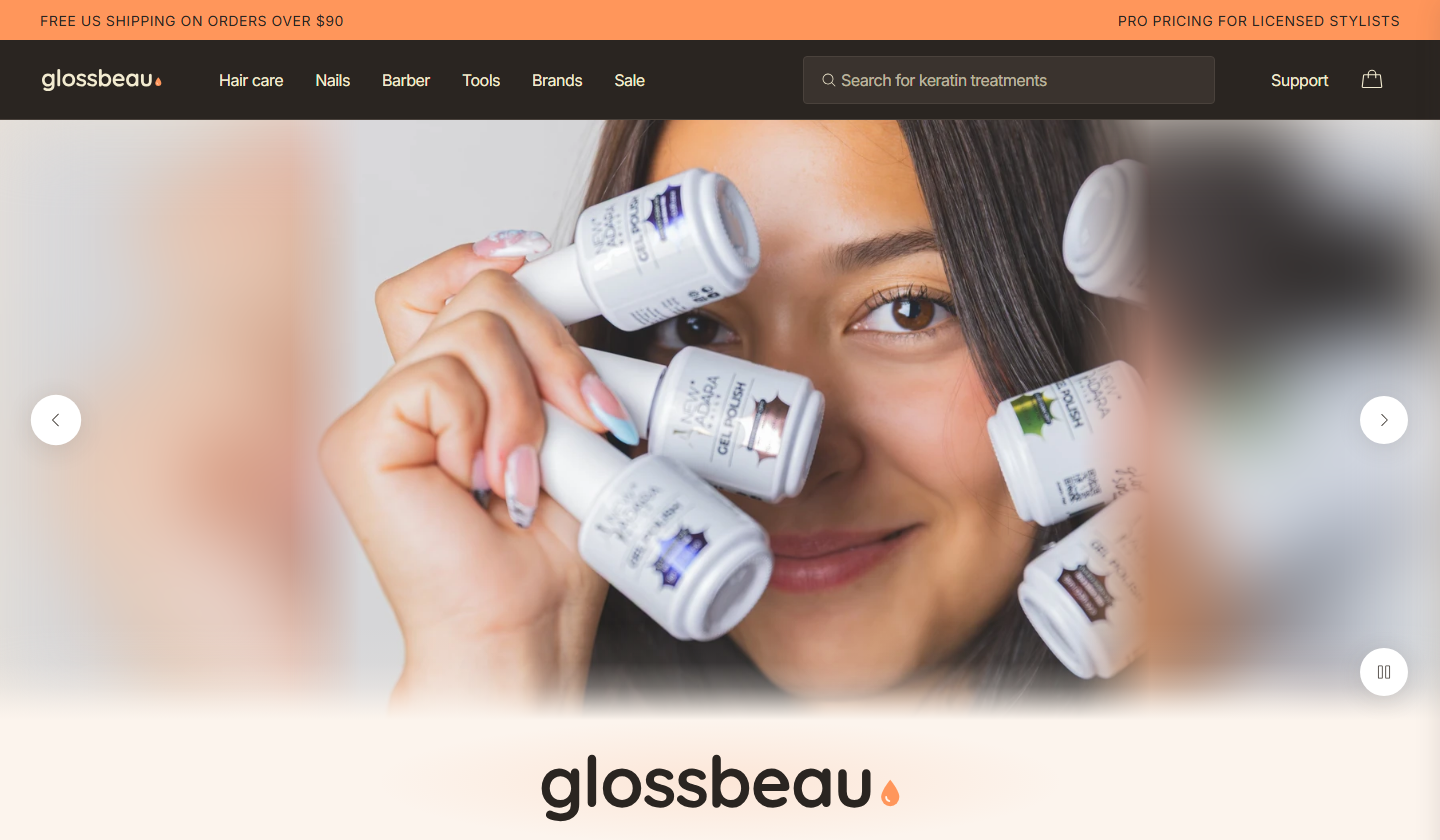
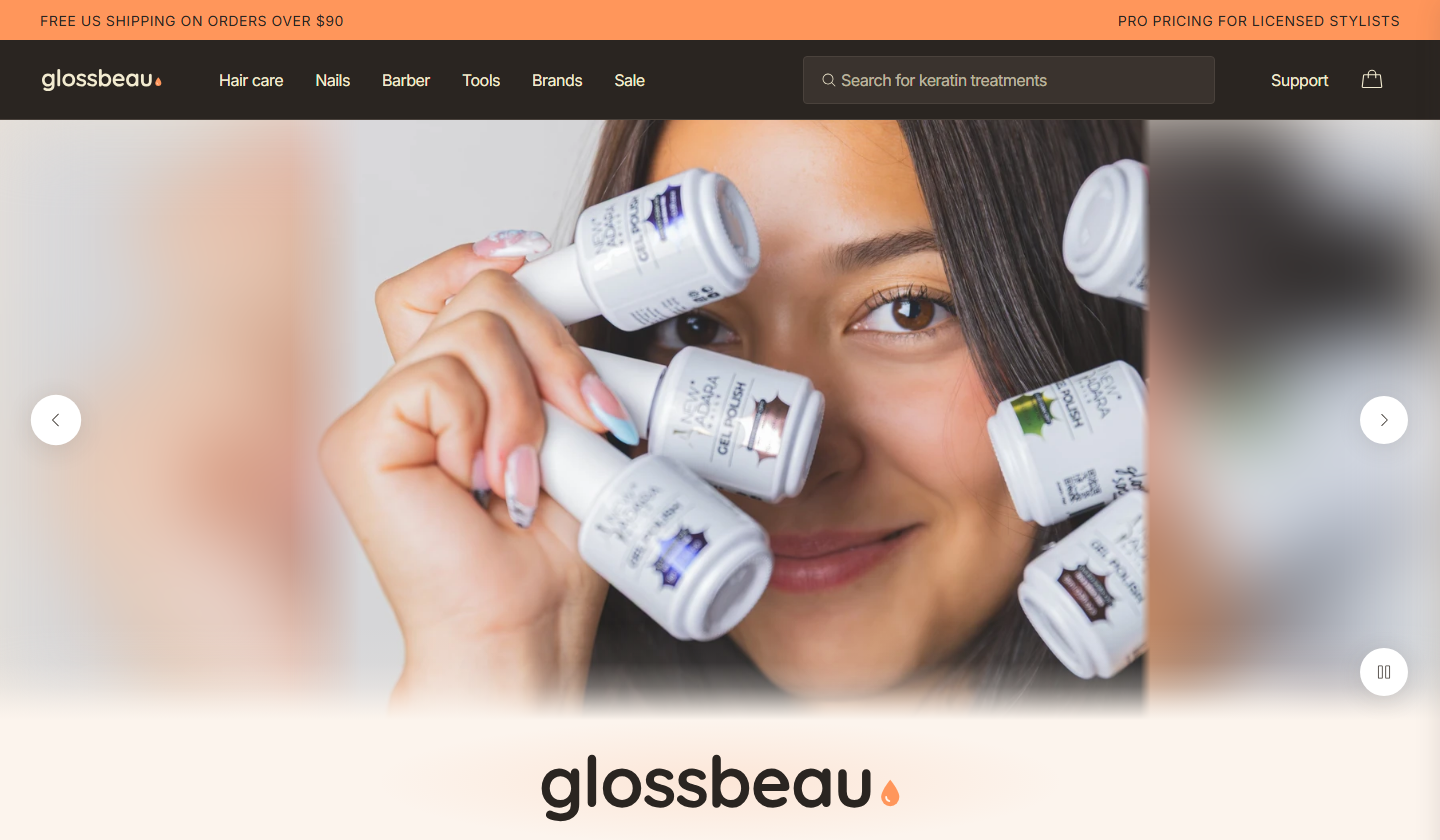
Hero: keep the New Adara bottle labels readable at the right edge
The 72px edge feather washed out the bottle labels that touch the photo's right edge. Feather width is
now per slide (--soft-l / --soft-r, `soft` in src/data/hero.ts); New Adara uses 72px left, 10px right.

Changed region(s): [[0.75, 0.1238, 0.8125, 0.8667]]

diff --git a/src/app/globals.css b/src/app/globals.css
@@ -392,9 +392,11 @@ body {
    is as tall as the stage (min(600px, 70svh)), so its drawn width is that height × --ar. */
 @media (min-width: 1024px) {
   .hero-media-soft {
+    /* --soft-l / --soft-r: feather width per side (72px default). A slide whose subject touches an edge (the New Adara
+       bottle labels on the right) sets that side small so nothing important is washed out. */
     --soft-edge: calc(50% - min(600px, 70svh) * var(--ar) / 2);
-    -webkit-mask-image: linear-gradient(to right, transparent var(--soft-edge), #000 calc(var(--soft-edge) + 72px), #000 calc(100% - var(--soft-edge) - 72px), transparent calc(100% - var(--soft-edge)));
-    mask-image: linear-gradient(to right, transparent var(--soft-edge), #000 calc(var(--soft-edge) + 72px), #000 calc(100% - var(--soft-edge) - 72px), transparent calc(100% - var(--soft-edge)));
+    -webkit-mask-image: linear-gradient(to right, transparent var(--soft-edge), #000 calc(var(--soft-edge) + var(--soft-l, 72px)), #000 calc(100% - var(--soft-edge) - var(--soft-r, 72px)), transparent calc(100% - var(--soft-edge)));
+    mask-image: linear-gradient(to right, transparent var(--soft-edge), #000 calc(var(--soft-edge) + var(--soft-l, 72px)), #000 calc(100% - var(--soft-edge) - var(--soft-r, 72px)), transparent calc(100% - var(--soft-edge)));
   }
 }
 /* Under the hero: peach-tinted cream with a soft bloom behind the big logo */

diff --git a/src/data/hero.ts b/src/data/hero.ts
@@ -4,11 +4,12 @@
  * `focus` is the CSS object-position used when the slide is cropped to the hero's shape
  * (600px tall on desktop, 420px on phones, full width); default is centre.
  * `ratio` (width / height) of an image slide lets desktop feather the photo's left and right edges into the blurred
- * sides; clips are all 1112×834.
+ * sides; clips are all 1112×834. `soft` = [left, right] feather in px (default 72 each): keep it small on a side
+ * where the subject touches the edge.
  */
 export type HeroSlideData =
   | { handle: string; title: string; video: string; poster: string; focus?: string }
-  | { image: string; alt: string; href: string; title: string; focus?: string; ratio?: number };
+  | { image: string; alt: string; href: string; title: string; focus?: string; ratio?: number; soft?: [number, number] };
 
 export const heroSlides: HeroSlideData[] = [
   { handle: "genus-argan-moisturizing-serum-for-dry-and-frizzy-hair-100ml", title: "Genus Argan Moisturizing Serum", video: "/videos/serum-still1-seedance.mp4", poster: "/stills/serum-still-1-pump.jpg" },
@@ -25,5 +26,7 @@ export const heroSlides: HeroSlideData[] = [
     title: "New Adara Nails",
     focus: "80% 25%",
     ratio: 3302 / 2300,
+    // Bottle labels run to the right edge: only a hint of feather there so they stay readable
+    soft: [72, 10],
   },
 ];

diff --git a/src/components/home/Hero.tsx b/src/components/home/Hero.tsx
@@ -17,7 +17,7 @@ export type HeroSlide =
       poster: string;
       focus?: string;
     }
-  | { image: string; alt: string; href: string; title: string; focus?: string; ratio?: number };
+  | { image: string; alt: string; href: string; title: string; focus?: string; ratio?: number; soft?: [number, number] };
 
 const HOLD_MS = 5000;
 const GLIDE_S = 1.6;
@@ -185,7 +185,13 @@ export function Hero({ slides }: { slides: HeroSlide[] }) {
                   quality={90}
                   sizes="(min-width: 1024px) 70vw, 100vw"
                   className={`object-cover [object-position:var(--focus)] lg:object-contain lg:[object-position:50%_50%] ${s.ratio ? "hero-media-soft" : ""}`}
-                  style={{ "--focus": s.focus ?? "50% 50%", "--ar": s.ratio } as React.CSSProperties}
+                  style={
+                    {
+                      "--focus": s.focus ?? "50% 50%",
+                      "--ar": s.ratio,
+                      ...(s.soft ? { "--soft-l": `${s.soft[0]}px`, "--soft-r": `${s.soft[1]}px` } : {}),
+                    } as React.CSSProperties
+                  }
                 />
               </>
             )}
